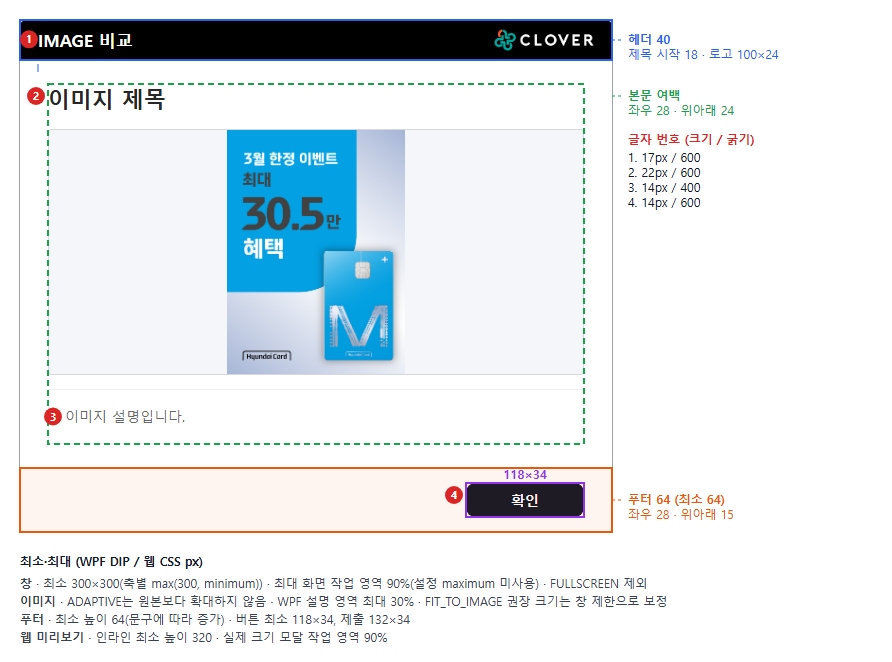
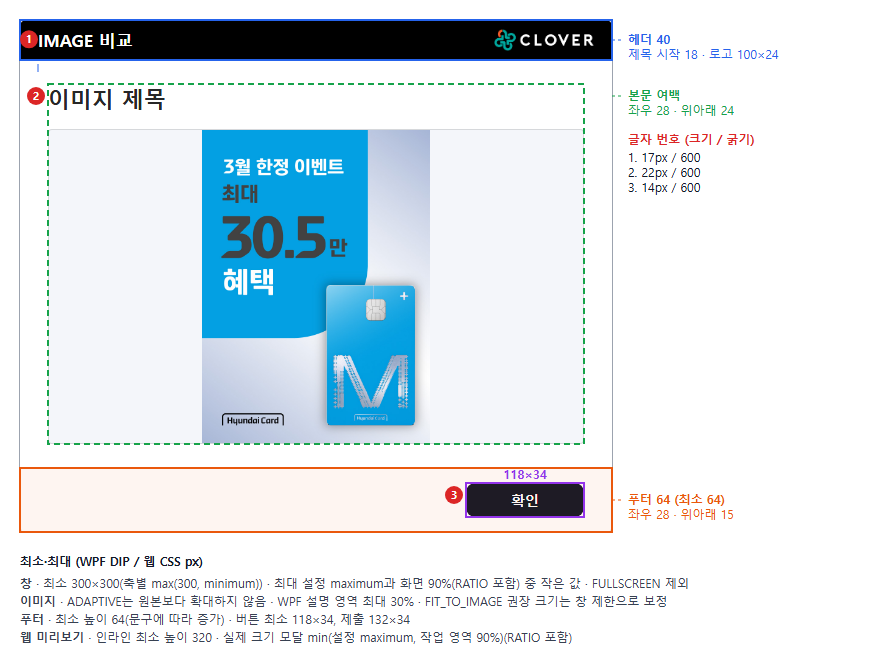
dev: 61_레이아웃가이드버튼표·IMAGE기준·영상모서리_수정

diff --git a/scripts/PopupParityCapture/Program.cs b/scripts/PopupParityCapture/Program.cs
@@ -63,6 +63,10 @@ internal static class Program
             var m = outer.Margin;
             int width = (int)Math.Round(outer.ActualWidth), height = (int)Math.Round(outer.ActualHeight);
             BitmapSource bitmap = new CroppedBitmap(full, new Int32Rect((int)m.Left, (int)m.Top, Math.Min(width, windowWidth - (int)m.Left), Math.Min(height, windowHeight - (int)m.Top)));
+            // 영상 창(불투명, 2026-11-25): 실제 화면의 둥근 모서리는 OpaqueWindowCorners가 별도 Win32 모서리 창 4개로 덧그려
+            // 본 창만 그리는 RenderTargetBitmap에는 빠진다(모서리가 직각으로 캡처됨). 같은 반지름으로 모서리 밖을 투명하게 잘라 실제 모습과 맞춘다.
+            if (!window.AllowsTransparency && options.SizeMode != Popup.Models.PopupSizeMode.Fullscreen)
+                bitmap = RoundCorners(bitmap, DefaultWindowRadius());
             var encoder = new PngBitmapEncoder();
             encoder.Frames.Add(BitmapFrame.Create(bitmap));
             using (var file = File.Create(Path.Combine(args[1], dto.PopupId + ".wpf.png"))) encoder.Save(file);
@@ -100,13 +104,43 @@ internal static class Program
                     content = Box(window.FindName("PopupContent") as FrameworkElement, outer),
                     footer = Box(window.FindName("FooterArea") as FrameworkElement, outer),
                     buttons = Descendants(outer).OfType<System.Windows.Controls.Button>().Where(x => x.IsVisible && x.ActualWidth > 0)
-                        .Select(x => new { text = (x.Content as string) ?? System.Windows.Automation.AutomationProperties.GetName(x), x.FontSize, box = Box(x, outer) }),
+                        .Select(x => new { text = (x.Content as string) ?? System.Windows.Automation.AutomationProperties.GetName(x), x.FontSize, enabled = x.IsEnabled,
+                            // 버튼 크기·상태 표(2026-11-25): 템플릿 Body 테두리의 실제 배경색과 글자색(비활성 트리거 반영 후).
+                            bg = ((x.Template?.FindName("Body", x) as System.Windows.Controls.Border)?.Background as SolidColorBrush)?.Color.ToString(),
+                            color = (x.Foreground as SolidColorBrush)?.Color.ToString(), box = Box(x, outer) }).ToList(),
                 },
             }));
             window.Close();
         }
         Console.WriteLine($"WPF captured {popups.Count}");
         return 0;
+    }
+
+    /* 일반 팝업 창의 모서리 반지름(PopupWindow.xaml PopupBodyBorder). 영상 창은 표시 때 0으로 바꾸고 같은 값을 모서리 창에 넘기므로 XAML 값을 읽는다. */
+    private static double? s_windowRadius;
+    private static double DefaultWindowRadius()
+    {
+        if (s_windowRadius is double cached) return cached;
+        var probe = new PopupWindow(new Popup.Models.PopupOptions { Content = new System.Windows.Controls.TextBlock() });
+        double radius = ((System.Windows.Controls.Border)probe.FindName("PopupBodyBorder")).CornerRadius.TopLeft;
+        probe.Close();
+        return (s_windowRadius = radius).Value;
+    }
+
+    /* 비트맵 네 모서리를 반지름 radius로 둥글게 자른다(모서리 밖 투명). */
+    private static BitmapSource RoundCorners(BitmapSource source, double radius)
+    {
+        int w = source.PixelWidth, h = source.PixelHeight;
+        var visual = new DrawingVisual();
+        using (var dc = visual.RenderOpen())
+        {
+            dc.PushClip(new RectangleGeometry(new Rect(0, 0, w, h), radius, radius));
+            dc.DrawImage(source, new Rect(0, 0, w, h));
+            dc.Pop();
+        }
+        var rounded = new RenderTargetBitmap(w, h, 96, 96, PixelFormats.Pbgra32);
+        rounded.Render(visual);
+        return rounded;
     }
 
     /// <summary>흰 판(PopupOuterGrid) 기준 위치·크기. 보이지 않으면 null.</summary>

diff --git a/docs/design/61_POPUP_LAYOUT_GUIDE.md b/docs/design/61_POPUP_LAYOUT_GUIDE.md
@@ -20,9 +20,9 @@
 node scripts/verify-popup-parity.cjs
 ```
 
-- 결과는 `.offline-verify/popup-parity/`에 생긴다. `<ID>.guide.png`(이 문서의 그림 — 그림 아래 칸에 유형별 최소·최대, 설문·퀴즈 콘텐츠 너비(최대 760)·영상 높이(최소 180/170) 실측 상자 포함), `<ID>.side.png`(웹·WPF 나란히), `guide-figures.md`(유형별 그림·번호표), `texts.md`(전체 글자 대조), `alerts/`(완료·안내 팝업 그림·수치, 2026-11-25)다.
+- 결과는 `.offline-verify/popup-parity/`에 생긴다. `<ID>.guide.png`(이 문서의 그림 — 그림 아래 칸에 유형별 최소·최대, 설문·퀴즈 콘텐츠 너비(최대 760)·영상 높이(최소 180/170) 실측 상자 포함), `<ID>.side.png`(웹·WPF 나란히), `guide-figures.md`(유형별 그림·번호표), `texts.md`(전체 글자 대조), `alerts/`(완료·안내 팝업 그림·수치, 2026-11-25), `buttons.md`(버튼 크기·상태 실측, 2026-11-25)다. 버튼 상태 확인용 세트(`PARITY-BTN-*`)는 나란히 그림만 만들고 이 문서 그림에는 쓰지 않는다.
 - 레이아웃을 바꾼 뒤 다시 실행해 아래 그림을 `61_popup_layout_guide/`에 덮어쓰고, 유형별 절은 `guide-figures.md` 내용으로 바꾼다.
-- 한계: 로그인한 관리자 화면이 아닌 같은 컴포넌트 하네스다. 브라우저 확대·Windows 배율·폐쇄망 전역 CSS는 포함하지 않는다. WPF 영상(WebView2)은 캡처에 그려지지 않는다.
+- 한계: 로그인한 관리자 화면이 아닌 같은 컴포넌트 하네스다. 브라우저 확대·Windows 배율·폐쇄망 전역 CSS는 포함하지 않는다. WPF 영상(WebView2)은 캡처에 그려지지 않는다. WPF 영상 창(불투명)의 둥근 모서리는 실제 화면에서 별도 모서리 창(`OpaqueWindowCorners`)이 그려 본 창 캡처에 빠지므로, 캡처 도구가 같은 반지름(6)으로 모서리를 잘라 맞춘다(2026-11-25).
 
 ## 공통 창 구조
 
@@ -99,6 +99,22 @@ node scripts/verify-popup-parity.cjs
 - 버튼 아래~흰 판 아래는 15다(모든 유형 실측 일치).
 - 좁은 폭에서 웹 일반 푸터는 오른쪽 버튼 묶음을 다음 줄로 내리고 푸터가 위로 늘어난다(아래 TEXT 좁은 폭 그림, 푸터 110). WPF는 줄을 나누지 않는다. 설문 푸터는 줄을 나누지 않고 안내 문구를 줄바꿈한다.
 - 다시 보지 않기 글자 위치는 웹·WPF가 같다(MUI `FormControlLabel` 기본 여백을 푸터 안에서 0으로 둔다).
+
+## 버튼 크기·상태
+
+푸터 버튼 높이는 모두 34이고, 너비는 최소값에서 시작해 글자가 길면 늘어난다. 글자는 14/600(`footerFontSize`가 있으면 그 값)이다. 웹·WPF 실측 값과 색은 같다. 다른 곳은 아래 표의 「시청 전 확인 비활성」 한 줄뿐이다.
+
+| 버튼 | 상태 | 크기 W×H | 배경 / 글자 | 모양 | 웹 | WPF |
+|---|---|---|---|---|---|---|
+| 확인·바로가기 | 활성 | 최소 118 × 34 | #111827 / #FFFFFF | 좌우 22, 모서리 9 | `PopupFooterButton kind="primary"` | `FooterActionButtonStyle` |
+| 확인 | 비활성(VIDEO·VIDEO+QUIZ 시청 기준 전, WPF만) | 118 × 34 | #E5E7EB / #9CA3AF | 같음 | 미리보기는 시청 잠금을 시연하지 않아 항상 활성 | `IsEnabled=False` 트리거 |
+| 나중에 보기·보조 닫기 | 활성(나중에 보기는 완료 전 잠금과 관계없이 항상 활성) | 최소 118 × 34(나중에 보기 실측 120.9 × 34) | #F3F4F6 / #111827, 테두리 #D1D5DB | 좌우 22, 모서리 9 | `kind="secondary"` | `FooterSecondaryButtonStyle` |
+| 제출 | 활성 | 최소 132 × 34 | #4A4A4F / #FFFFFF | 좌우 24, 모서리 11 | `kind="submit"` | `SurveyFooterSubmitButtonStyle`(V2) |
+| 제출 | 비활성(필수 문항 미응답·시청 기준 전) | 132 × 34 | #E5E5E5 / #A3A3A3 | 같음 | 같음 | 같음 |
+| 완료·안내 팝업 버튼(확인·다시 풀기·다시 시도) | 활성 | 최소 118 × **44** | #111827 / #FFFFFF | 좌우 22, 모서리 9 | 없음(미리보기는 안내 문구) | `ActionButtonStyle`([완료·안내 팝업](#완료안내-팝업-popupalert-wpf)) |
+
+- 마우스를 올리거나 누를 때 WPF 색: 확인 #1F2937 → #374151, 나중에 보기 #E5E7EB → #D1D5DB, 제출 #3D3D42 → #303035. 키보드 초점은 확인 투명도 0.88, 나중에 보기 테두리 #6B7280, 제출 테두리 강조.
+- 세트별 전체 실측(웹·WPF 크기와 배경/글자 색): [buttons.md](61_popup_layout_guide/buttons.md). `node scripts/verify-popup-parity.cjs`가 만들고, 같은 글자 버튼의 웹·WPF 크기 차이 1 이하와 높이 34를 판정한다.
 
 ## 유형별
 
@@ -199,7 +215,7 @@ node scripts/verify-popup-parity.cjs
 
 ### IMAGE — ADAPTIVE (640×560)
 
-샘플 ID `PARITY-IMAGE`
+샘플 ID `PARITY-IMAGE` — 설명 없는 기본형 기준(설명은 선택 옵션, WPF 설명 영역은 최대 30%)
 
 ![PARITY-IMAGE 레이아웃](61_popup_layout_guide/PARITY-IMAGE.guide.png)
 
@@ -207,8 +223,7 @@ node scripts/verify-popup-parity.cjs
 |---|---|---|---|
 | 1 | IMAGE 비교 | 17/600 | 17/600 |
 | 2 | 이미지 제목 | 22/600 | 22/600 |
-| 3 | 이미지 설명입니다. | 14/400 | 14/400 |
-| 4 | 확인 | 14/600 | 14/600 |
+| 3 | 확인 | 14/600 | 14/600 |
 
 최소·최대(그림 아래 칸과 같음):
 

diff --git a/version-history/CHANGELOG.md b/version-history/CHANGELOG.md
@@ -1,5 +1,17 @@
 # 변경 이력
 
+## 2026-11-25-14 — dev: 61_레이아웃가이드버튼표·IMAGE기준·영상모서리_수정
+
+- 이유 · 요구사항 반영·정합성 보완. 레이아웃 가이드(61)의 IMAGE 그림이 설명 있는 버전이었고, 버튼별 크기·상태(활성·비활성) 표가 없었으며, VIDEO+QUIZ 나란히 그림의 WPF 쪽 모서리가 직각으로 캡처됨. 점검 중 그림 아래 최소·최대 칸 글자(그림 생성기 `layoutLimits`)가 5a46b9d 이전 정책(IMAGE 설정 maximum 미사용·RATIO 100%·웹 주관식 96~180)으로 남아 문서 그림이 옛 문구로 나가던 것도 확인.
+- 변경 ·
+  - `verify-popup-parity.cjs`: IMAGE 세트를 설명 없는 기본형으로. 버튼 세트 3개(바로가기·나중에 보기, 제출 활성, 시청 전 확인 비활성 — WPF 전용) 추가, WPF `footerAction`을 데이터에서 받게 함. 웹·WPF 푸터 버튼 크기·비활성·배경/글자색 측정, 같은 글자 버튼 크기 차이 1 이하·높이 34 판정, `buttons.md` 생성. `layoutLimits` 문구를 공통 정책(설정 maximum과 화면 90%, RATIO 포함 / 주관식 96~180 자동)으로 정정.
+  - `PopupParityCapture`: 영상 창(불투명) 캡처에 실제 화면의 모서리 창(`OpaqueWindowCorners`)이 빠져 직각으로 나오던 것을 같은 반지름(XAML `PopupBodyBorder`, 6)으로 잘라 맞춤. 버튼 측정에 활성 여부·템플릿 배경색·글자색 추가.
+  - `61_POPUP_LAYOUT_GUIDE.md`: 「버튼 크기·상태」 절(확인·바로가기·나중에 보기·제출 활성/비활성·완료 팝업 버튼의 W×H·색·모양·웹/WPF 근거, 마우스·초점 색, 전체 실측 `61_popup_layout_guide/buttons.md`), IMAGE 절 설명 없는 기준·번호표, 다시 만들기·한계(영상 창 모서리 처리) 보완. 유형별 그림 7종·나란히 그림 재생성.
+  - `verify-popup-guide-registry`: 그림 생성기 파일도 옛 정책 문구 검사 대상에 넣고 공통 최대 규칙 문장을 확인.
+- 주요 파일 · `scripts/verify-popup-parity.cjs`, `scripts/PopupParityCapture/Program.cs`, `scripts/verify-popup-guide-registry.cjs`, `docs/design/61_POPUP_LAYOUT_GUIDE.md`, `docs/design/61_popup_layout_guide/*.png`·`buttons.md`.
+- 검증 · `verify-popup-parity` 149(버튼 15행 웹=WPF 크기·색, 차이는 시청 전 확인 비활성 1건 — 웹 미리보기는 잠금 미시연), WPF 영상 창 캡처 모서리 픽셀 투명 확인, `verify-popup-guide-registry` 643, 생성 번호표와 문서 표 대조 일치. 제품 코드 변경 없음.
+- 상태 · 커밋·원격 반영. 20261125 반입본에는 없음.
+
 ## 2026-11-25-13 — dev: 61_주관식칸높이자동_수정
 
 - 이유 · 정합성 보완. 설문·퀴즈 주관식 칸이 웹 미리보기에서만 96 고정 + 끌어서 180까지 늘이는 손잡이(`resize: vertical`)가 있었고, WPF는 손잡이 없이 내용에 맞춰 96~180으로 커져 동작이 달랐음. 높이 값도 웹(SurveyPreview)·WPF(코드 96, 스타일 V1·V2의 MaxHeight 180) 여러 곳에 흩어져 있었음.

diff --git a/docs/design/61_popup_layout_guide/buttons.md b/docs/design/61_popup_layout_guide/buttons.md
@@ -1,0 +1,17 @@
+| 세트 | 버튼 | WPF 상태 | 웹 W×H | WPF W×H | 웹 배경/글자 | WPF 배경/글자 |
+|---|---|---|---|---|---|---|
+| PARITY-SURVEY | 제출 | 비활성 | 132×34 | 132×34 | #E5E5E5 / #A3A3A3 | #E5E5E5 / #A3A3A3 |
+| PARITY-SURVEY-BODY18 | 제출 | 비활성 | 132×34 | 132×34 | #E5E5E5 / #A3A3A3 | #E5E5E5 / #A3A3A3 |
+| PARITY-QUIZ-OX | 제출 | 비활성 | 132×34 | 132×34 | #E5E5E5 / #A3A3A3 | #E5E5E5 / #A3A3A3 |
+| PARITY-TEXT | 확인 | 활성 | 118×34 | 118×34 | #111827 / #FFFFFF | #111827 / #FFFFFF |
+| PARITY-TEXT-FONTS | 확인 | 활성 | 118×34 | 118×34 | #111827 / #FFFFFF | #111827 / #FFFFFF |
+| PARITY-TEXT-560x750 | 확인 | 활성 | 118×34 | 118×34 | #111827 / #FFFFFF | #111827 / #FFFFFF |
+| PARITY-TEXT-NARROW-LONG | 나중에 보기 | 활성 | 120.9×34 | 120.9×34 | #F3F4F6 / #111827 | #F3F4F6 / #111827 |
+| PARITY-TEXT-NARROW-LONG | 확인 | 활성 | 118×34 | 118×34 | #111827 / #FFFFFF | #111827 / #FFFFFF |
+| PARITY-IMAGE | 확인 | 활성 | 118×34 | 118×34 | #111827 / #FFFFFF | #111827 / #FFFFFF |
+| PARITY-VIDEO | 확인 | 활성 | 118×34 | 118×34 | #111827 / #FFFFFF | #111827 / #FFFFFF |
+| PARITY-VIDEO-QUIZ | 제출 | 비활성 | 132×34 | 132×34 | #E5E5E5 / #A3A3A3 | #E5E5E5 / #A3A3A3 |
+| PARITY-BTN-LINK | 나중에 보기 | 활성 | 120.9×34 | 120.9×34 | #F3F4F6 / #111827 | #F3F4F6 / #111827 |
+| PARITY-BTN-LINK | 바로가기 | 활성 | 118×34 | 118×34 | #111827 / #FFFFFF | #111827 / #FFFFFF |
+| PARITY-BTN-SUBMIT-ON | 제출 | 활성 | 132×34 | 132×34 | #4A4A4F / #FFFFFF | #4A4A4F / #FFFFFF |
+| PARITY-BTN-VIDEO-LOCKED | 확인 | 비활성 (웹 활성) | 118×34 | 118×34 | #111827 / #FFFFFF | #E5E7EB / #9CA3AF |
